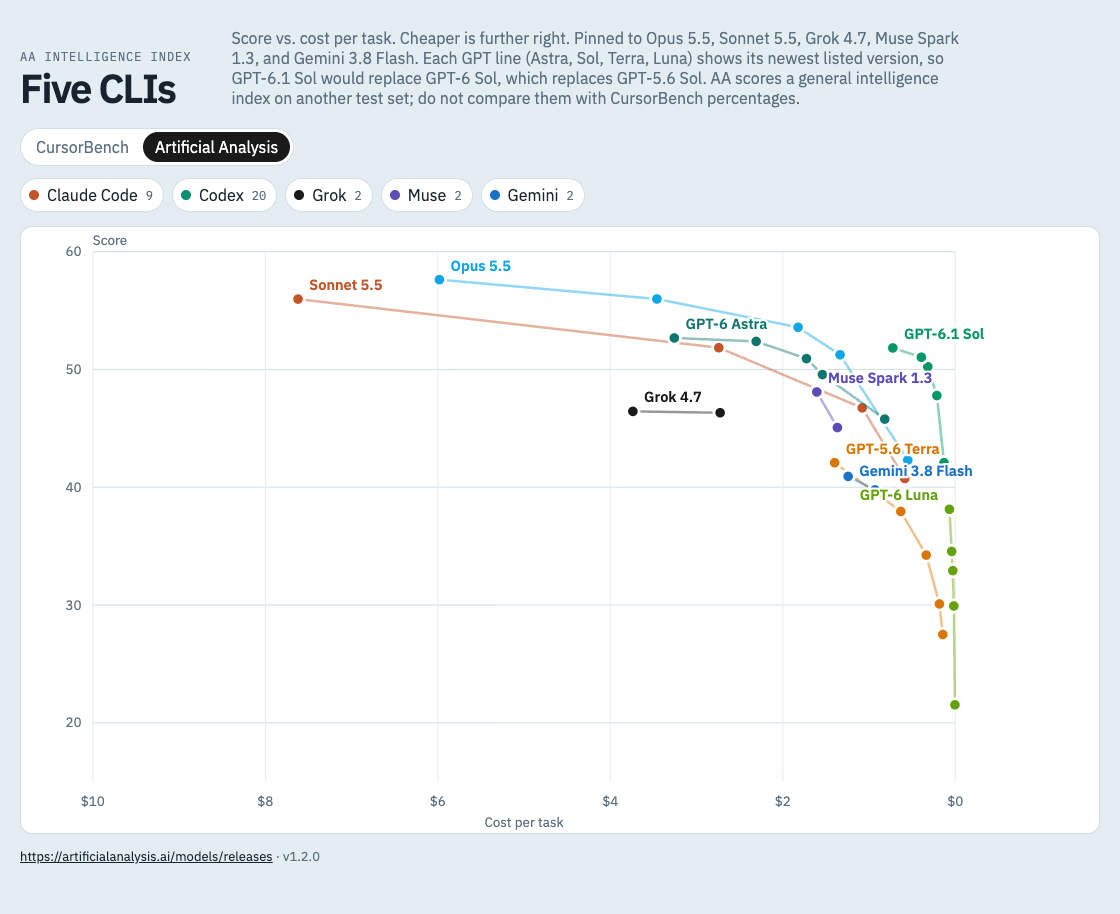
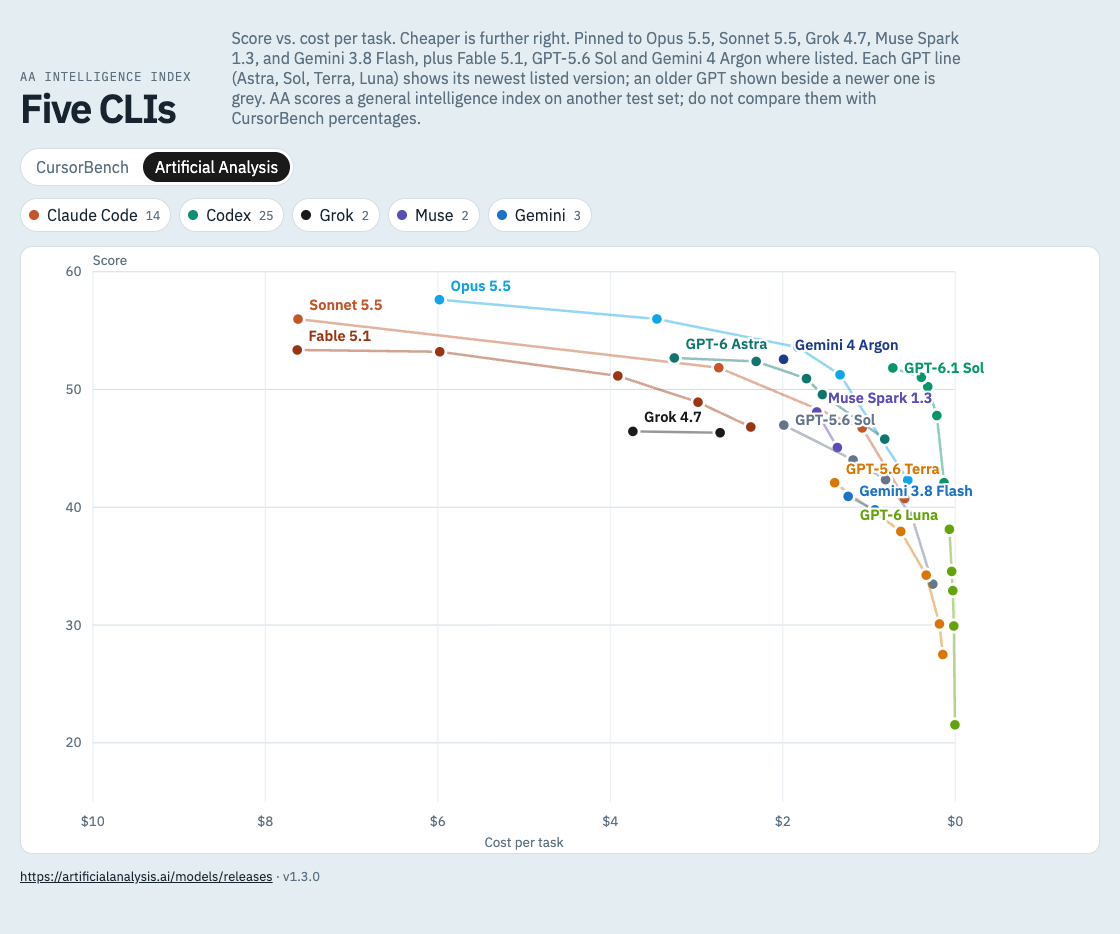
feat: draw Fable 5.1, GPT-5.6 Sol and Gemini 4 Argon where listed
- EXTRA models in server/bench.mjs apply to both sources: Fable 5.1 on
  CursorBench and AA, GPT-5.6 Sol kept beside GPT-6.1 Sol on AA, and
  Gemini 4 Argon (AA only for now).
- An older GPT drawn beside a newer version of its line is grey.
- AA release discovery also reads releases that only appear through
  their variants (e.g. GPT-5.6 Sol).
- README, changelog and screenshots updated. Bump to 1.3.0.

diff --git a/src/Chart.tsx b/src/Chart.tsx
@@ -4,6 +4,7 @@ import {
   formatCostTick,
   formatScore,
   niceCeil,
+  previousGenerations,
   seriesColor,
   tickValues,
   type Row,
@@ -73,6 +74,9 @@ export default function Chart({ rows, unit, scoreName, active, onHover, onPick }
   const xTicks = tickValues(0, xMax, 6)
   const yTicks = tickValues(yMin, yMax, 6)
 
+  const previous = previousGenerations([...new Set(rows.map((row) => row.model))])
+  const colorOf = (model: string, provider: Row["provider"]) => seriesColor(model, provider, previous.has(model))
+
   const byModel = new Map<string, Row[]>()
   for (const row of rows) {
     const list = byModel.get(row.model)
@@ -91,7 +95,7 @@ export default function Chart({ rows, unit, scoreName, active, onHover, onPick }
         text: model,
         x: x + (anchor === "end" ? -10 : 10),
         y: yOf(top.score) - 8,
-        color: seriesColor(top.model, top.provider),
+        color: colorOf(top.model, top.provider),
         anchor,
       })
     }
@@ -127,7 +131,7 @@ export default function Chart({ rows, unit, scoreName, active, onHover, onPick }
   const emphasis = focus?.model ?? null
   const focusX = focus ? xOf(focus.cost) : null
   const focusY = focus ? yOf(focus.score) : null
-  const focusColor = focus ? seriesColor(focus.model, focus.provider) : null
+  const focusColor = focus ? colorOf(focus.model, focus.provider) : null
 
   return (
     <svg
@@ -188,7 +192,7 @@ export default function Chart({ rows, unit, scoreName, active, onHover, onPick }
         Cost per task
       </text>
       {[...byModel.entries()].map(([model, points]) => {
-        const color = seriesColor(model, points[0].provider)
+        const color = colorOf(model, points[0].provider)
         const hot = emphasis === model
         const dim = emphasis !== null && !hot
         const ordered = [...points].sort((a, b) => effortIndex(a.effort) - effortIndex(b.effort))

diff --git a/src/bench.ts b/src/bench.ts
@@ -46,7 +46,7 @@ export const SOURCES: Record<
   },
 }
 
-export const APP_VERSION = "1.2.0"
+export const APP_VERSION = "1.3.0"
 
 export function providerById(id: ProviderId) {
   const found = PROVIDERS.find((item) => item.id === id)
@@ -54,10 +54,31 @@ export function providerById(id: ProviderId) {
   return found
 }
 
-export function seriesColor(model: string, provider: ProviderId) {
+const GPT_MODEL = /^GPT-(\d+)(?:\.(\d+))? (Astra|Sol|Terra|Luna)$/
+
+// GPT models drawn next to a newer version of the same line (e.g. GPT-5.6 Sol
+// beside GPT-6.1 Sol). They get a muted colour so the newest one stands out.
+export function previousGenerations(models: readonly string[]) {
+  const newest = new Map<string, number>()
+  const version = (match: RegExpMatchArray) => Number(match[1]) * 1000 + Number(match[2] ?? 0)
+  for (const model of models) {
+    const match = model.match(GPT_MODEL)
+    if (match) newest.set(match[3], Math.max(newest.get(match[3]) ?? 0, version(match)))
+  }
+  const previous = new Set<string>()
+  for (const model of models) {
+    const match = model.match(GPT_MODEL)
+    if (match && version(match) < (newest.get(match[3]) ?? 0)) previous.add(model)
+  }
+  return previous
+}
+
+export function seriesColor(model: string, provider: ProviderId, previous = false) {
+  if (previous) return "#64748b"
   if (model.startsWith("Opus")) return "#0ea5e9"
   if (model.startsWith("Sonnet")) return "#c4552a"
   if (model.startsWith("Fable")) return "#9a3412"
+  if (model.includes("Argon")) return "#1e3a8a"
   if (model.includes("Sol")) return "#059669"
   if (model.includes("Terra")) return "#d97706"
   if (model.includes("Astra")) return "#0f766e"

diff --git a/src/App.tsx b/src/App.tsx
@@ -76,8 +76,8 @@ export default function App() {
         </div>
         <p className="deck">
           Score vs. cost per task. Cheaper is further right. Pinned to Opus 5.5, Sonnet 5.5, Grok 4.7, Muse Spark 1.3, and
-          Gemini 3.8 Flash. Each GPT line (Astra, Sol, Terra, Luna) shows its newest listed version, so GPT-6.1 Sol would
-          replace GPT-6 Sol, which replaces GPT-5.6 Sol.
+          Gemini 3.8 Flash, plus Fable 5.1, GPT-5.6 Sol and Gemini 4 Argon where listed. Each GPT line (Astra, Sol, Terra,
+          Luna) shows its newest listed version; an older GPT shown beside a newer one is grey.
           {source === "aa"
             ? " AA scores a general intelligence index on another test set; do not compare them with CursorBench percentages."
             : null}

diff --git a/README.md b/README.md
@@ -4,13 +4,15 @@ A small local viewer for the [CursorBench](https://cursor.com/cursorbench) leade
 
 | CLI         | Models shown                                   |
 | ----------- | ---------------------------------------------- |
-| Claude Code | Opus 5.5, Sonnet 5.5                           |
+| Claude Code | Opus 5.5, Sonnet 5.5, Fable 5.1                |
 | Codex       | GPT-5.6 Sol, Terra, Luna (see below)           |
 | Grok        | Grok 4.7                                       |
 | Muse        | Muse Spark 1.3                                 |
-| Gemini      | Gemini 3.8 Flash                               |
+| Gemini      | Gemini 3.8 Flash, Gemini 4 Argon (AA only)     |
 
 Every effort level listed on CursorBench (Minimal → Max) appears as its own point, and each model's points are connected into one line.
+
+Besides the pinned models, Fable 5.1, GPT-5.6 Sol and Gemini 4 Argon are drawn on whichever source lists them. Gemini 4 Argon is on Artificial Analysis only for now.
 
 ![Demo: score vs. cost per task for five coding CLIs](docs/demo.png)
 
@@ -22,11 +24,11 @@ Clicking a legend chip shows or hides that CLI. Here only Codex is visible, comp
 
 ![Demo: legend chips filter the chart to one CLI](docs/demo-filter.png)
 
-**GPT upgrade rule:** Codex shows one entry per GPT line: Astra, Sol, Terra and Luna. Each line uses its newest version on the leaderboard, so GPT-6.1 Sol replaces GPT-6 Sol, which replaces GPT-5.6 Sol. A line appears once the leaderboard lists it. No code change is needed.
+**GPT upgrade rule:** Codex shows one entry per GPT line: Astra, Sol, Terra and Luna. Each line uses its newest version on the leaderboard, so GPT-6.1 Sol replaces GPT-6 Sol, which replaces GPT-5.6 Sol. A line appears once the leaderboard lists it. No code change is needed. GPT-5.6 Sol is kept as an extra, so when a newer Sol is on the chart it stays as a grey comparison line.
 
 As of 2026-10-01 the leaderboard has no GPT-6 models, so Codex still shows GPT-5.6. GPT-6 has no Terra line, so Terra stays on 5.6.
 
-**Data source switch:** the toggle above the legend swaps CursorBench for the [Artificial Analysis](https://artificialanalysis.ai/models/releases) Intelligence Index, using the same models and the same GPT rule. AA already lists GPT-6.1 Sol, GPT-6 Astra and GPT-6 Luna. Its score is a general intelligence index on a different test set, so read it on its own and do not compare it with CursorBench percentages. AA scores fewer efforts for some models (Grok 4.7 and Muse Spark 1.3 have two each). The choice is kept in the URL as `?source=aa`.
+**Data source switch:** the toggle above the legend swaps CursorBench for the [Artificial Analysis](https://artificialanalysis.ai/models/releases) Intelligence Index, using the same models and the same GPT rule. AA already lists GPT-6.1 Sol, GPT-6 Astra, GPT-6 Luna and Gemini 4 Argon. Its score is a general intelligence index on a different test set, so read it on its own and do not compare it with CursorBench percentages. AA scores fewer efforts for some models (Grok 4.7 and Muse Spark 1.3 have two each). The choice is kept in the URL as `?source=aa`.
 
 ![Demo: the same chart on the Artificial Analysis Intelligence Index](docs/demo-aa.png)
 
@@ -61,7 +63,7 @@ CursorBench has no public API or data file, so the dev server scrapes the leader
 
 The Artificial Analysis source (`/api/bench?source=aa`, in [server/aa.mjs](server/aa.mjs)) works differently:
 
-1. It fetches the AA "All releases" page and picks the releases to show with the same model rule.
+1. It fetches the AA "All releases" page and picks the releases to show with the same model rule. A release is found from its release entry or from its variants, since some releases (such as GPT-5.6 Sol) only appear through their variants.
 2. It fetches each picked release page and reads that release's own per-effort entries. An effort without an index score or a cost per task is left out.
 3. Results are cached in `data/aa-cache.json` for 6 hours. If a release page fails, its last cached rows are kept.
 
@@ -90,10 +92,11 @@ src/bench.ts       Shared types, provider colors, formatting helpers
 
 ## Changing which models are shown
 
-Edit `KEEP` and `GPT_LINES` in [server/bench.mjs](server/bench.mjs), then delete `data/bench-cache.json` and `data/aa-cache.json` so the next load rebuilds both caches.
+Edit `KEEP`, `EXTRA` and `GPT_LINES` in [server/bench.mjs](server/bench.mjs), then delete `data/bench-cache.json` and `data/aa-cache.json` so the next load rebuilds both caches.
 
 ## Changelog
 
+- **1.3.0** (2026-10-01): Fable 5.1, GPT-5.6 Sol and Gemini 4 Argon drawn on whichever source lists them. An older GPT shown beside a newer version of its line is grey. AA release discovery also reads releases that appear only through their variants.
 - **1.2.0** (2026-10-01): Data source toggle between CursorBench and the Artificial Analysis Intelligence Index (`?source=aa`), so GPT-6.1 Sol, GPT-6 Astra and GPT-6 Luna can be seen before CursorBench lists them. AA rows are read per release and per effort, never borrowed from a neighbouring model.
 - **1.1.0** (2026-10-01): Each GPT line shows its newest listed version (GPT-6.1 Sol replaces GPT-6 Sol, which replaces GPT-5.6 Sol). Added Sonnet 5.5 and GPT-5.6 Luna.
 - **1.0.0** (2026-09-27): First release. CursorBench score vs. cost per task for five coding CLIs.
